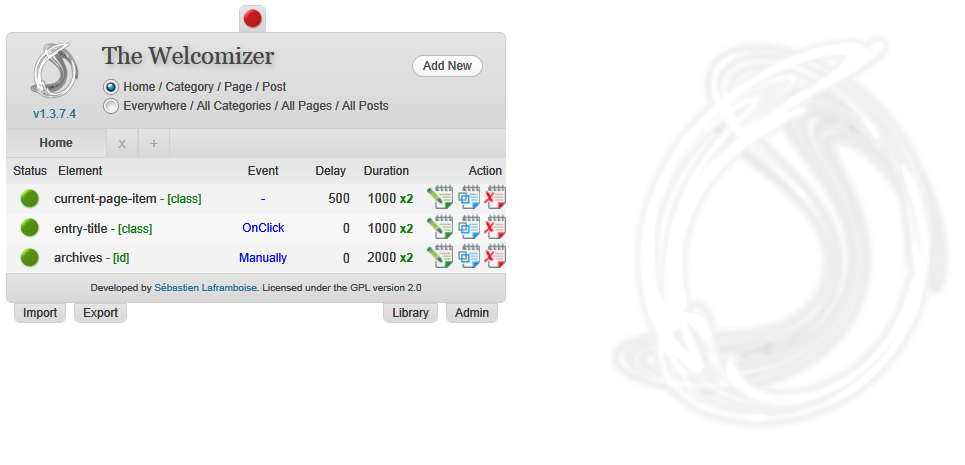
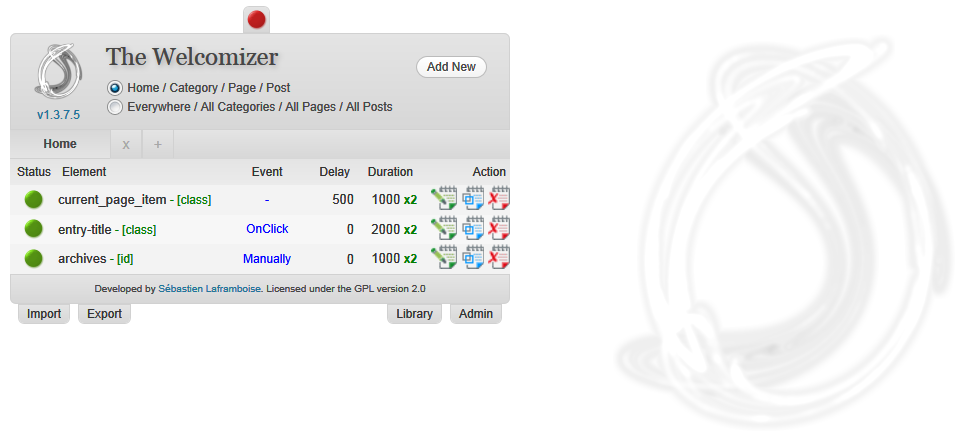
v1.3.7.5
git-svn-id: https://plugins.svn.wordpress.org/the-welcomizer/trunk@418988 b8457f37-d9ea-0310-8a92-e5e31aec5664

diff --git a/includes/twiz-style.css b/includes/twiz-style.css
@@ -450,7 +450,7 @@
     border: #E6DB55 1px solid;
 }
 .twiz-slc-options {
-    width: 100%;
+    width: 230px;
 }
 .twiz-table-more-options,
 #twiz_tr_starting_config {

diff --git a/includes/twiz.class.php b/includes/twiz.class.php
@@ -339,7 +339,7 @@ class Twiz{
         $this->pluginUrl  = $pluginUrl;
         $this->pluginDir  = $pluginDir;
         $this->pluginName = __('The Welcomizer', 'the-welcomizer');
-        $this->version    = '1.3.7.4';
+        $this->version    = '1.3.7.5';
         $this->dbVersion  = '2.3';
         $this->table      = $wpdb->prefix .'the_welcomizer';
         $this->logoUrl    = '/images/twiz-logo.png';
@@ -1367,7 +1367,6 @@ class Twiz{
         foreach( $listarray as $value ){
 
               if ( $sectionname == '' ) {
-              
                   $myTwizMenu  = new TwizMenu(); 
                   $sectionname = sanitize_title_with_dashes($myTwizMenu->getSectionName($value[self::F_SECTION_ID]));
               }
@@ -1390,6 +1389,7 @@ class Twiz{
 
         $filedata .= '</TWIZ>'."\n";
         
+        $section_id =  str_replace(self::DEFAULT_SECTION_ALL_ARTICLES, 'allposts', $section_id);
         $sectionname = ($sectionname == '') ? $sectionname = $section_id.$id : $sectionname.$id;
        
         $filename = urldecode($sectionname).".".self::EXT_TWZ;
@@ -1913,9 +1913,8 @@ jQuery(document).ready(function($){';
 
                     $repeatname = $value[self::F_SECTION_ID]."_".str_replace("-","_",$value[self::F_LAYER_ID])."_".$value[self::F_ID];
                     /* js */    
-                    $value[self::F_JAVASCRIPT] = str_replace("$(document).twizRepeat()", "$(document).twizRepeat_".$repeatname.'()' , $value[self::F_JAVASCRIPT]);
-                    $value[self::F_JAVASCRIPT] = str_replace("$(document).twiz_", "$(document).twizRepeat_" , $value[self::F_JAVASCRIPT]);
-                    $generatedscript .= $value[self::F_JAVASCRIPT];
+                    $generatedscript .= str_replace("$(document).twizRepeat()", "$(document).twiz_".$repeatname.'()' , $value[self::F_JAVASCRIPT]);
+                  
                 }   
                 
                 if($value[self::F_OUTPUT_POS]=='r'){ // ready
@@ -1951,7 +1950,7 @@ $.fn.twizReplay = function(){ ';
                 
                 /* repeat animation function */
                 $generatedscript .= '
-$.fn.twizRepeat_'.$repeatname.' = function(twiz_this){ ';
+$.fn.twiz_'.$repeatname.' = function(twiz_this){ ';
           
                 if(($value[self::F_OUTPUT_POS]=='b')or ($value[self::F_OUTPUT_POS]=='')){ // before
                     
@@ -1968,9 +1967,7 @@ $.fn.twizRepeat_'.$repeatname.' = function(twiz_this){ ';
                 if(($value[self::F_OUTPUT]=='b')or ($value[self::F_OUTPUT]=='')){ // before
                 
                     /* js */    
-                    $value[self::F_JAVASCRIPT] = str_replace("$(document).twizRepeat()", "$(document).twizRepeat_".$repeatname.'()' , $value[self::F_JAVASCRIPT]);
-                    $value[self::F_JAVASCRIPT] = str_replace("$(document).twiz_", "$(document).twizRepeat_" , $value[self::F_JAVASCRIPT]);
-                    $generatedscript .= $value[self::F_JAVASCRIPT];
+                    $generatedscript .= str_replace("$(document).twizRepeat()", "$(document).twiz_".$repeatname.'()' , $value[self::F_JAVASCRIPT]);
                 }
                 
                 $hasSomething = $this->hasSomething($value);
@@ -1996,9 +1993,8 @@ $.fn.twizRepeat_'.$repeatname.' = function(twiz_this){ ';
                     if( $value[self::F_OUTPUT] == 'a' ){ // after 
                         
                         /* js */    
-                        $value[self::F_JAVASCRIPT] = str_replace("$(document).twizRepeat()", "$(document).twizRepeat_".$repeatname.'()' , $value[self::F_JAVASCRIPT]);
-                        $value[self::F_JAVASCRIPT] = str_replace("$(document).twiz_", "$(document).twizRepeat_" , $value[self::F_JAVASCRIPT]);
-                        $generatedscript .= $value[self::F_JAVASCRIPT];
+                        $generatedscript .= str_replace("$(document).twizRepeat()", "$(document).twiz_".$repeatname.'()' , $value[self::F_JAVASCRIPT]);
+                        
                     }
                     
                     $value[self::F_OPTIONS_A] = (($value[self::F_OPTIONS_A]!='') and (($value[self::F_MOVE_LEFT_POS_A]!="") or ($value[self::F_MOVE_TOP_POS_A]!=""))) ? ','.$value[self::F_OPTIONS_A] :  $value[self::F_OPTIONS_A];
@@ -2026,9 +2022,8 @@ $("'. $newElementFormat . '").animate({';
                         $value[self::F_EXTRA_JS_A] = $this->replaceNumericEntities($value[self::F_EXTRA_JS_A]);
             
                         /* extra js a */    
-                        $value[self::F_EXTRA_JS_A] = str_replace("$(document).twizRepeat()", "$(document).twizRepeat_".$repeatname.'()' , $value[self::F_EXTRA_JS_A]);
-                        $value[self::F_EXTRA_JS_A] = str_replace("$(document).twiz_", "$(document).twizRepeat_" , $value[self::F_EXTRA_JS_A]);
-                        $generatedscript .= $value[self::F_EXTRA_JS_A];
+                        $generatedscript .= str_replace("$(document).twizRepeat()", "$(document).twiz_".$repeatname.'()' , $value[self::F_EXTRA_JS_A]);
+                        
    
                         /* b */ 
                                     
@@ -2061,9 +2056,7 @@ $("'. $newElementFormat . '").animate({';
                         }
                         
                         /* extra js b */    
-                        $value[self::F_EXTRA_JS_B] = str_replace("$(document).twizRepeat()", "$(document).twizRepeat_".$repeatname.'()' , $value[self::F_EXTRA_JS_B]);
-                        $value[self::F_EXTRA_JS_B] = str_replace("$(document).twiz_", "$(document).twizRepeat_" , $value[self::F_EXTRA_JS_B]);
-                        $generatedscript .= $value[self::F_EXTRA_JS_B];
+                        $generatedscript .= str_replace("$(document).twizRepeat()", "$(document).twiz_".$repeatname.'()' , $value[self::F_EXTRA_JS_B]);
                         
                         /* closing functions */
                         $generatedscript .= '});';
@@ -2097,14 +2090,14 @@ $("'. $newElementFormat . '").animate({';
 $("'.$newElementFormat.'").'.strtolower($value[self::F_ON_EVENT]).'(function(){ ';
                        $generatedscript .= 'if(twiz_active_'.$repeatname_var.' == 0) {';
                        $generatedscript .= 'twiz_active_'.$repeatname_var.' = 1;';
-                       $generatedscript .= '$(document).twizRepeat_'.$repeatname.'(this);}';
+                       $generatedscript .= '$(document).twiz_'.$repeatname.'(this);}';
                        $generatedscript .= '});';                    
                    }
                    
                 }else{
                 
                     /* trigger the animation if not on event */
-                    $generatedscript .=  '$(document).twizRepeat_'.$repeatname.'($("'.$newElementFormat.'"));';
+                    $generatedscript .=  '$(document).twiz_'.$repeatname.'($("'.$newElementFormat.'"));';
                 }
             }
             
@@ -2448,7 +2441,7 @@ $("textarea[name^=twiz_javascript]").blur(function (){
                 width:\'200px\'
                 </td></tr>        
                 <tr><td><hr></td></tr>        
-                <tr><td class="twiz-caption">'.__('Extra JavaScript', 'the-welcomizer').'</td></tr><tr><td ><textarea onclick="textarea.expand(this)" rows="1" onkeyup="textarea.expand(this)" WRAP=OFF class="twiz-input twiz-input-large" id="twiz_'.self::F_EXTRA_JS_A.'" name="twiz_'.self::F_EXTRA_JS_A.'" type="text">'.$data[self::F_EXTRA_JS_A].'</textarea>'.$this->getHtmlFunctionList($id, 'javascript_a', $section_id).'</td></tr><tr><td  class="twiz-td-e-g">'.__('e.g.', 'the-welcomizer').'<br>$(this).css({position:\'static\',<br>\'z-index\':\'1\'});</td></tr>
+                <tr><td class="twiz-caption">'.__('Extra JavaScript', 'the-welcomizer').'</td></tr><tr><td ><textarea onclick="textarea.expand(this)" rows="1" onkeyup="textarea.expand(this)" WRAP=OFF class="twiz-input twiz-input-large" id="twiz_'.self::F_EXTRA_JS_A.'" name="twiz_'.self::F_EXTRA_JS_A.'" type="text">'.$data[self::F_EXTRA_JS_A].'</textarea></td></tr><tr><td>'.$this->getHtmlFunctionList($id, 'javascript_a', $section_id).'</td></tr><tr><td  class="twiz-td-e-g">'.__('e.g.', 'the-welcomizer').'<br>$(this).css({position:\'static\',<br>\'z-index\':\'1\'});</td></tr>
         </table>
 </td>
 <td valign="top">    
@@ -2473,7 +2466,7 @@ $("textarea[name^=twiz_javascript]").blur(function (){
                 width:\'100px\'
                 </td></tr>        
             <tr><td ><hr></td></tr>
-            <tr><td  class="twiz-caption">'.__('Extra JavaScript', 'the-welcomizer').'</td></tr><tr><td ><textarea onclick="textarea.expand(this)" rows="1" onkeyup="textarea.expand(this)" WRAP=OFF class="twiz-input twiz-input-large" id="twiz_'.self::F_EXTRA_JS_B.'" name="twiz_'.self::F_EXTRA_JS_B.'" type="text" value="">'.$data[self::F_EXTRA_JS_B].'</textarea>'.$this->getHtmlFunctionList($id, 'javascript_b', $section_id).'</td></tr><tr><td  class="twiz-td-e-g">'.__('e.g.', 'the-welcomizer').'<br>$(document).twizRepeat();<br>$(document).twizReplay();</td></tr>
+            <tr><td  class="twiz-caption">'.__('Extra JavaScript', 'the-welcomizer').'</td></tr><tr><td ><textarea onclick="textarea.expand(this)" rows="1" onkeyup="textarea.expand(this)" WRAP=OFF class="twiz-input twiz-input-large" id="twiz_'.self::F_EXTRA_JS_B.'" name="twiz_'.self::F_EXTRA_JS_B.'" type="text" value="">'.$data[self::F_EXTRA_JS_B].'</textarea></td></tr><tr><td>'.$this->getHtmlFunctionList($id, 'javascript_b', $section_id).'</td></tr><tr><td  class="twiz-td-e-g">'.__('e.g.', 'the-welcomizer').'<br>$(document).twizRepeat();<br>$(document).twizReplay();</td></tr>
         </table>
 </td></tr>
 <tr><td colspan="2"><hr></td></tr>

diff --git a/twiz-index.php b/twiz-index.php
@@ -1,7 +1,7 @@
 <?php
 /*
 Plugin Name: The Welcomizer
-Version: 1.3.7.4
+Version: 1.3.7.5
 Plugin URI: http://www.sebastien-laframboise.com/wordpress/plugins-wordpress/the-welcomizer
 Description: This plugin allows you to animate your blog using jQuery effects. (100% AJAX) + .js/.css Includer.
 Author: S&#233;bastien Laframboise
